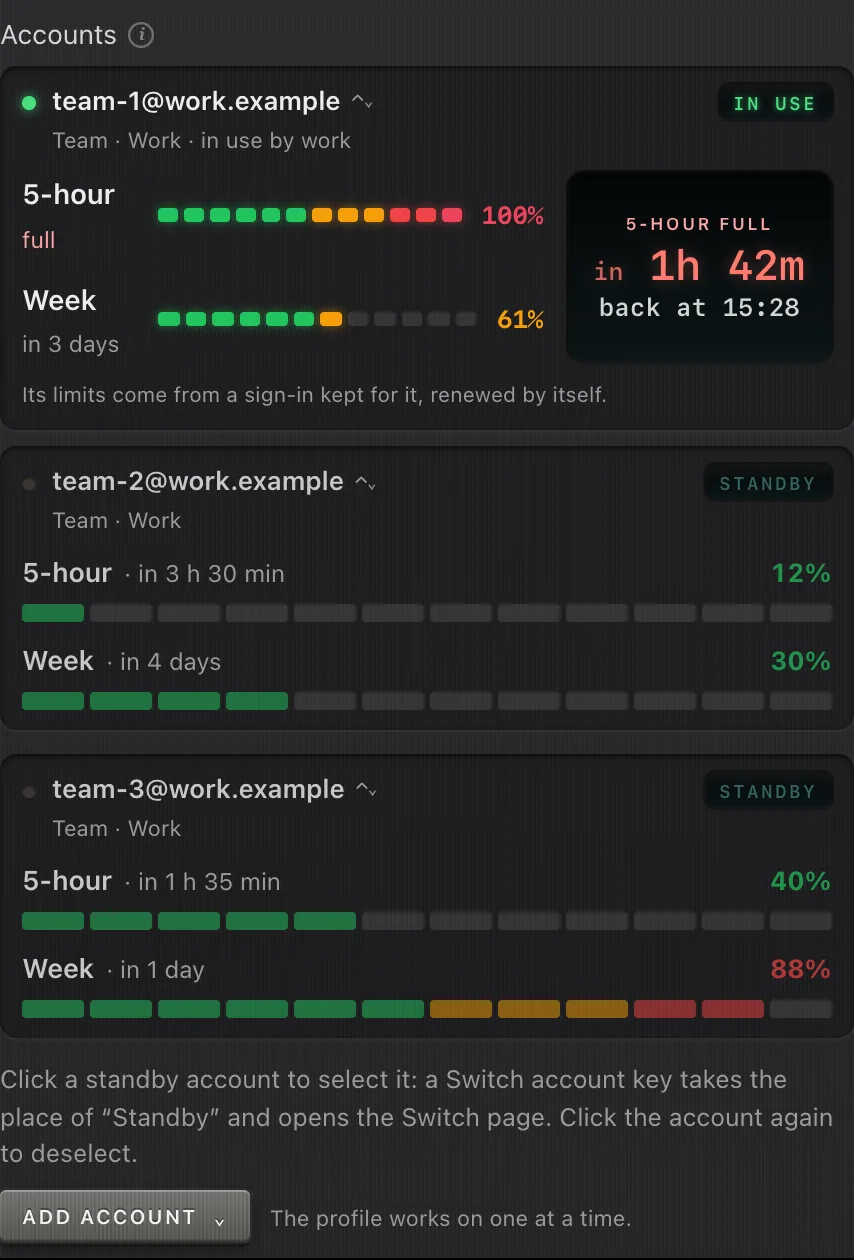
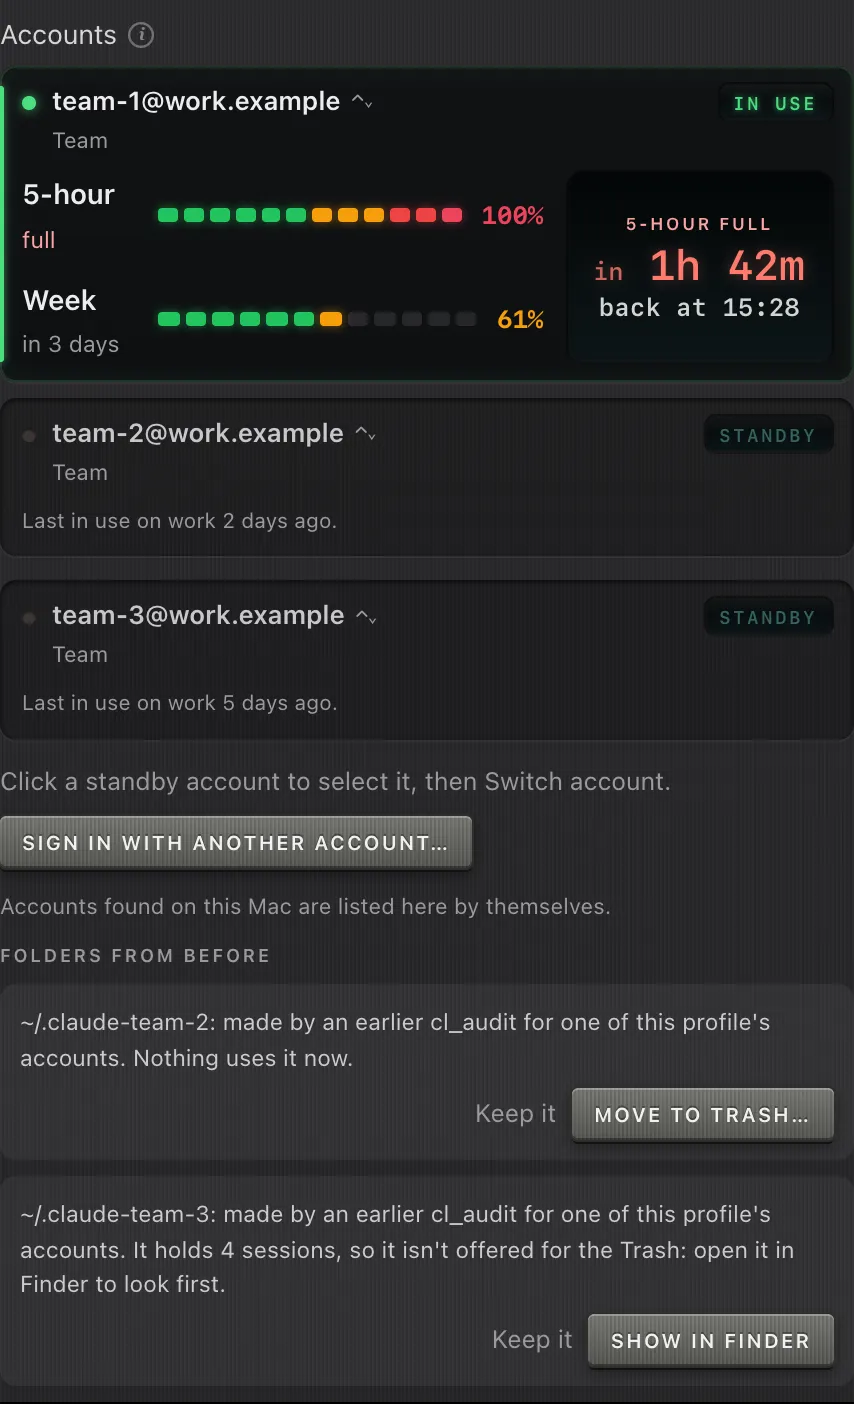
Guide pictures for 26.11.18: the Accounts card and the Switch page, back in the switch drafts
Captured from the live Settings demo after #66 (sample data, the Work profile) with
seo/scripts/capture-guide-images.js --only accounts-card,switch-page: IN USE plus two
signed-out STANDBY boxes, Sign in with another account…, Folders from before; the Switch
page with What changes and its five steps. WebP 62 KB and 95 KB. Back in the use case
(19 Nov, both) and the lost-sessions article (26 Nov, the Switch page); sizes in
guide-images.json.

diff --git a/src/content/use-cases/switch-claude-accounts.md b/src/content/use-cases/switch-claude-accounts.md
@@ -94,6 +94,8 @@ In cl_audit a **profile** is one Claude setup: a Claude Code folder with its sig
 
 You find them in Settings ▸ Main ▸ Claude Code ▸ **Accounts**. The account in use gets a lit **IN USE** box with its plan and organisation ("Ultra · Personal") and every limit its plan has, drawn as bars like the cards on the [dashboard demo](/dashboard/). A **STANDBY** box shows no limits, because nothing reads a standby account. It says when the account was last in use ("Last in use on Main 3 days ago").
 
+![Accounts in a profile's Claude Code card](/img/guides/accounts-card.webp "The site's demo of the Accounts for the profile Work: one account in use, two on standby, and two folders from before. Sample data.")
+
 The IN USE box shows the account the profile's Claude app is signed in to, or Claude Code's while the app is signed out or can't be read. Every screen shows that same account. The numbers always come through Claude Code's sign-in, so when Claude Code is on another account than the app, they say whose they are ("Usage: Claude Code on b…@example.com").
 
 ## Where the accounts come from
@@ -124,6 +126,8 @@ The page shows the account in use under NOW, with its limits, and the account yo
 - Claude Code's transcripts stay in the folder. So do the profile's name, Dock icon, look and settings, and ultra-1 stays on the profile as a standby account.
 
 Then come the steps and **Switch to ultra-2**.
+
+![The Switch page for the profile Work](/img/guides/switch-page.webp "The site's demo of the Switch page for the profile Work, before a switch to team-2. Sample data.")
 
 ## What happens when you switch, step by step
 

diff --git a/src/content/blog/claude-sessions-lost-switching-accounts.md b/src/content/blog/claude-sessions-lost-switching-accounts.md
@@ -176,6 +176,8 @@ cl_audit, our app, makes the same move part of a switch you start yourself. It's
 
 The move goes one way: from the account the profile is on to the account you switch to. So a switch changes accounts without the sidebar going blank. For sessions already sitting under an old account, claude-transplant lets you pick the From and To accounts yourself.
 
+![The Switch page for Work, with What changes and the steps](/img/guides/switch-page.webp "cl_audit's site demo: the Switch page for the Work profile, with What changes and the steps. Sample data.")
+
 Here is what happens when you switch Work from `ultra-1@example.com` to `ultra-2@example.com` in cl_audit 26.11.18.
 
 1. **Find the account.** In Settings ▸ the profile ▸ Claude Code ▸ **Accounts**, the account in use is marked IN USE and the others STANDBY. cl_audit finds your accounts on this Mac by itself, from the Claude window's session folders, Claude Code's records and the transcripts. **Sign in with another account…** is for one that isn't there yet.
